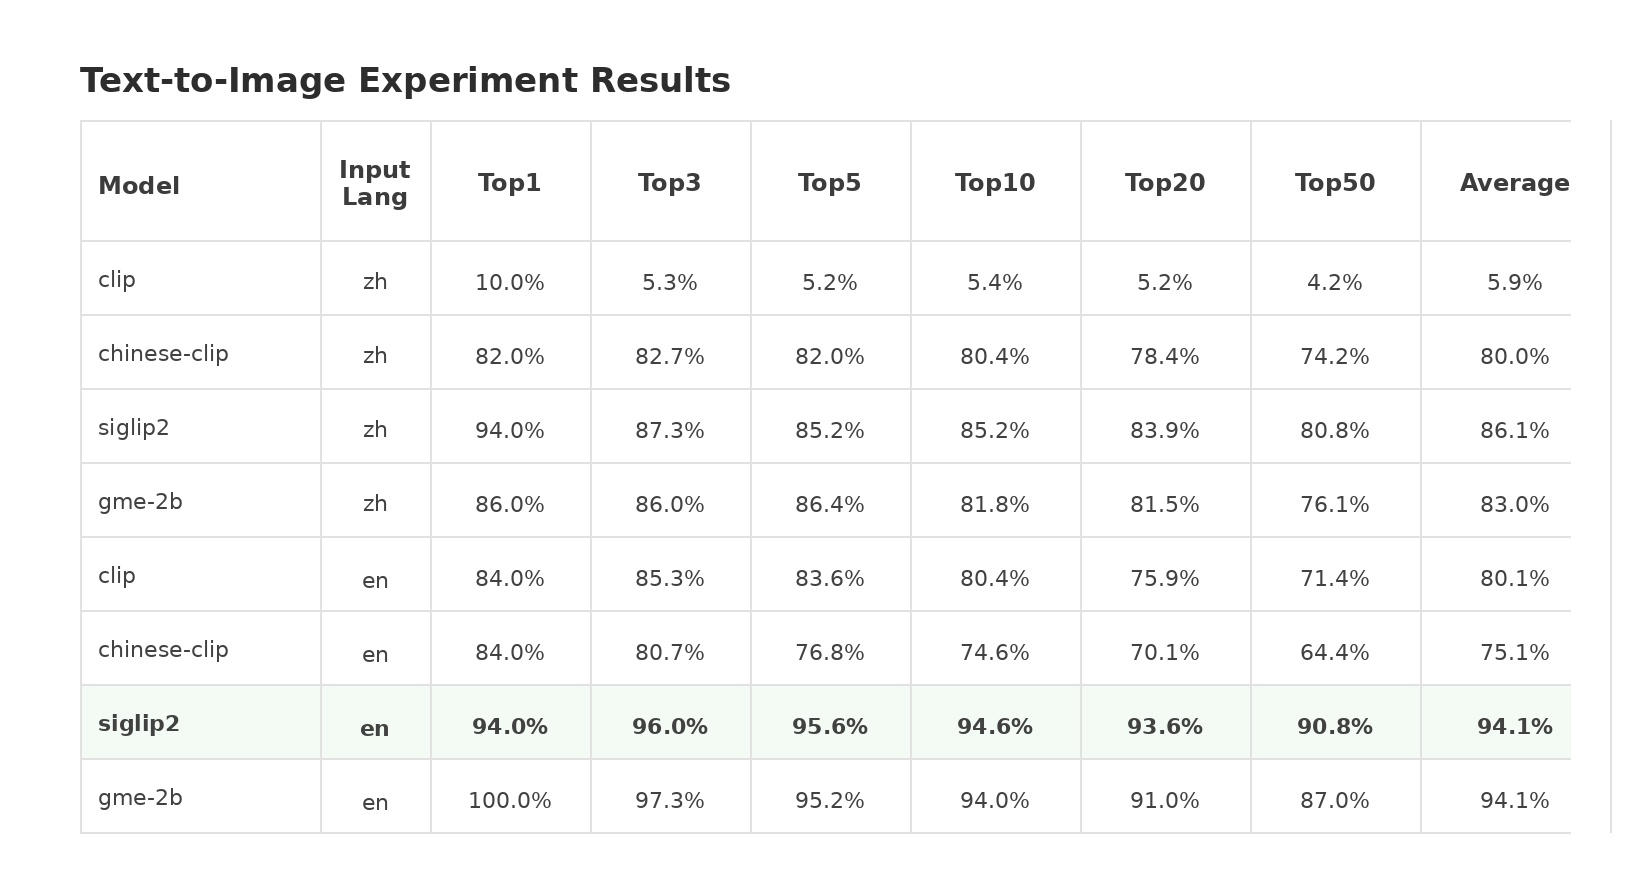
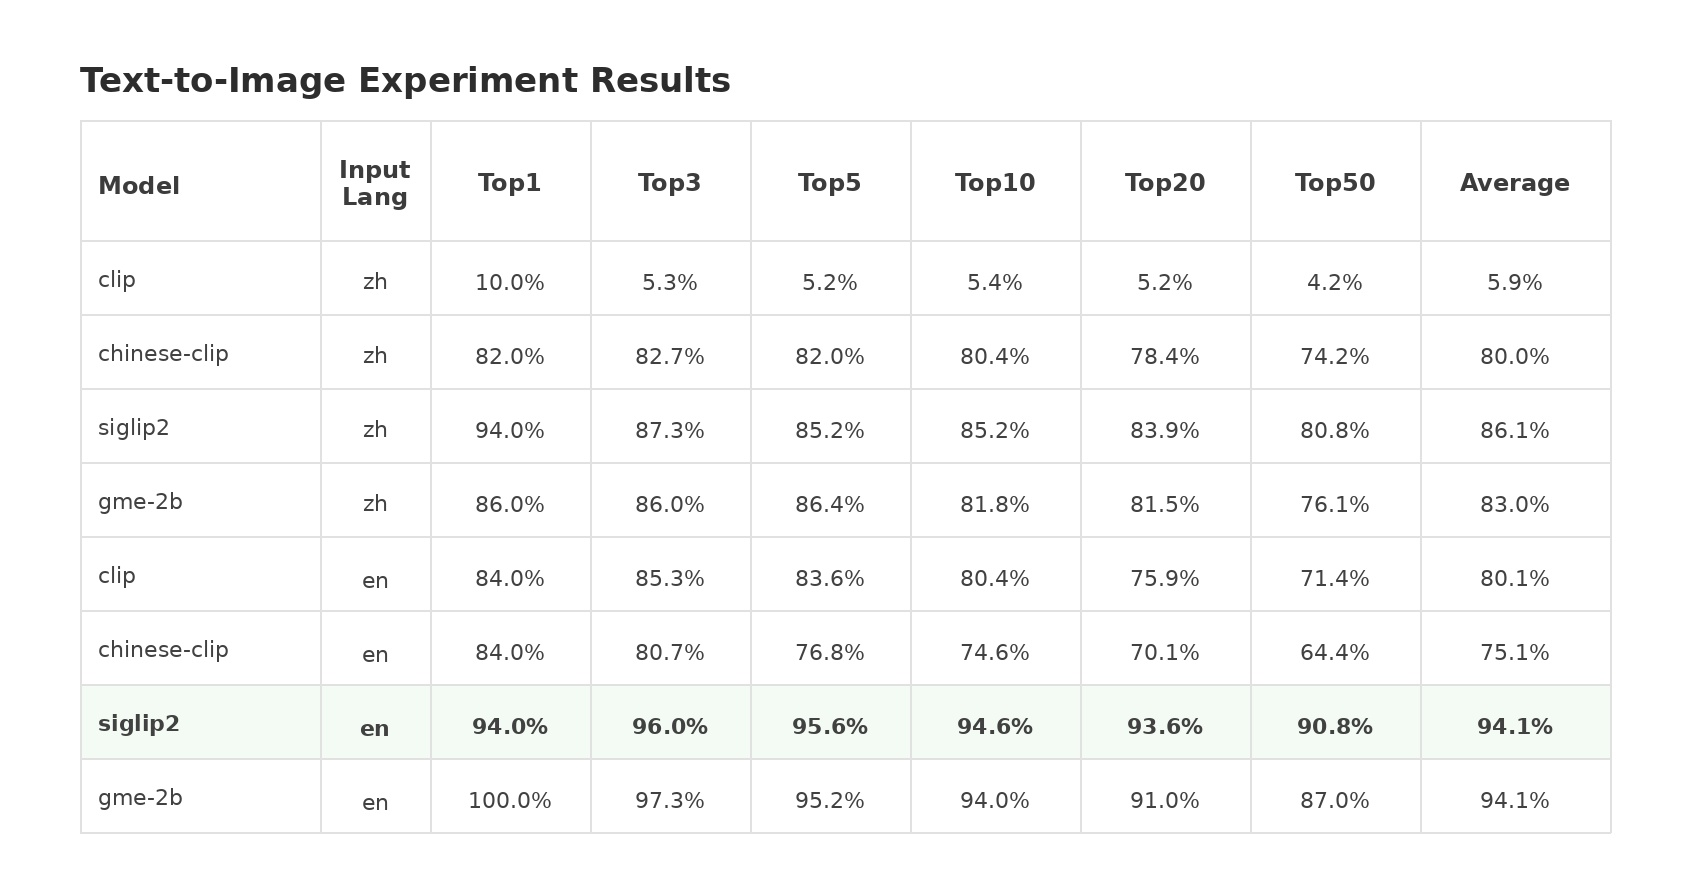
Fix chart rendering and add in-domain result tables

diff --git a/scripts/render_in_domain_result_tables.py b/scripts/render_in_domain_result_tables.py
@@ -1,0 +1,244 @@
+from __future__ import annotations
+
+import argparse
+import csv
+import json
+from pathlib import Path
+
+from PIL import Image, ImageDraw, ImageFont
+
+
+ROOT = Path("/workspace/multimodal_ecommerce_qa")
+RUN_DIR = ROOT / "reports/generated/siglip2_in_domain_pipeline_20260403T155304Z"
+FONT_REGULAR = "/usr/share/fonts/truetype/dejavu/DejaVuSans.ttf"
+FONT_BOLD = "/usr/share/fonts/truetype/dejavu/DejaVuSans-Bold.ttf"
+
+
+def parse_args() -> argparse.Namespace:
+    parser = argparse.ArgumentParser(description="Render in-domain RAG result tables in the sample white-table style.")
+    parser.add_argument("--run-dir", type=Path, default=RUN_DIR)
+    return parser.parse_args()
+
+
+def pct(value: float) -> str:
+    return f"{value * 100:.1f}%"
+
+
+def read_csv_rows(path: Path) -> list[dict[str, str]]:
+    with path.open("r", encoding="utf-8", newline="") as fh:
+        return list(csv.DictReader(fh))
+
+
+def draw_table_image(
+    *,
+    title: str,
+    headers: list[str],
+    rows: list[list[str]],
+    output_path: Path,
+    highlight_row: int | None = None,
+) -> None:
+    left = 80
+    top = 60
+    title_h = 60
+    header_h = 120
+    row_h = 74
+    bottom = 40
+    if len(headers) == 4:
+        col_widths = [350, 260, 260, 260]
+    elif len(headers) == 5:
+        col_widths = [320, 220, 220, 220, 220]
+    elif len(headers) == 7:
+        col_widths = [260, 150, 150, 150, 150, 150, 170]
+    else:
+        width = max(1280, 180 + 170 * len(headers))
+        table_w = width - left * 2
+        first = 320
+        rest = (table_w - first) // (len(headers) - 1)
+        col_widths = [first] + [rest] * (len(headers) - 1)
+        col_widths[-1] += table_w - sum(col_widths)
+    width = max(1280, left * 2 + sum(col_widths))
+    table_w = width - left * 2
+    height = top + title_h + header_h + row_h * len(rows) + bottom
+
+    image = Image.new("RGB", (width, height), "white")
+    draw = ImageDraw.Draw(image)
+
+    title_font = ImageFont.truetype(FONT_BOLD, 34)
+    head_font = ImageFont.truetype(FONT_BOLD, 24)
+    body_font = ImageFont.truetype(FONT_REGULAR, 22)
+    body_bold_font = ImageFont.truetype(FONT_BOLD, 22)
+
+    draw.text((left, top), title, fill=(45, 45, 45), font=title_font)
+
+    y0 = top + title_h
+
+    x_positions = [left]
+    for width_part in col_widths:
+        x_positions.append(x_positions[-1] + width_part)
+
+    line_color = (225, 225, 225)
+    header_bg = (255, 255, 255)
+    winner_bg = (244, 251, 244)
+
+    draw.rectangle([left, y0, left + table_w, y0 + header_h], fill=header_bg)
+
+    total_rows_h = header_h + row_h * len(rows)
+    for idx in range(len(rows) + 2):
+        y = y0 + (0 if idx == 0 else header_h + row_h * (idx - 1))
+        draw.line([(left, y), (left + table_w, y)], fill=line_color, width=2)
+    draw.line([(left, y0 + total_rows_h), (left + table_w, y0 + total_rows_h)], fill=line_color, width=2)
+
+    for x in x_positions:
+        draw.line([(x, y0), (x, y0 + total_rows_h)], fill=line_color, width=2)
+
+    for i, header in enumerate(headers):
+        x1, x2 = x_positions[i], x_positions[i + 1]
+        bbox = draw.multiline_textbbox((0, 0), header, font=head_font, spacing=4)
+        tw = bbox[2] - bbox[0]
+        th = bbox[3] - bbox[1]
+        tx = x1 + (x2 - x1 - tw) / 2
+        ty = y0 + (header_h - th) / 2
+        if i == 0:
+            tx = x1 + 18
+        draw.multiline_text((tx, ty), header, fill=(60, 60, 60), font=head_font, spacing=4, align="center")
+
+    for r, row in enumerate(rows):
+        y1 = y0 + header_h + r * row_h
+        y2 = y1 + row_h
+        is_best = highlight_row is not None and r == highlight_row
+        if is_best:
+            draw.rectangle([left, y1, left + table_w, y2], fill=winner_bg)
+            for x in x_positions:
+                draw.line([(x, y1), (x, y2)], fill=line_color, width=2)
+            draw.line([(left, y1), (left + table_w, y1)], fill=line_color, width=2)
+            draw.line([(left, y2), (left + table_w, y2)], fill=line_color, width=2)
+
+        for c, value in enumerate(row):
+            x1, x2 = x_positions[c], x_positions[c + 1]
+            font = body_bold_font if is_best else body_font
+            if c == 0:
+                bbox = draw.textbbox((0, 0), value, font=font)
+                tx = x1 + 18
+                ty = y1 + (row_h - (bbox[3] - bbox[1])) / 2
+                draw.text((tx, ty), value, fill=(65, 65, 65), font=font)
+            else:
+                bbox = draw.multiline_textbbox((0, 0), value, font=font, spacing=4)
+                tw = bbox[2] - bbox[0]
+                th = bbox[3] - bbox[1]
+                tx = x1 + (x2 - x1 - tw) / 2
+                ty = y1 + (row_h - th) / 2
+                draw.multiline_text((tx, ty), value, fill=(65, 65, 65), font=font, spacing=4, align="center")
+
+    output_path.parent.mkdir(parents=True, exist_ok=True)
+    image.save(output_path, quality=95)
+
+
+def build_retrieval_rows(summary: dict[str, float]) -> list[list[str]]:
+    keys = ["avg_precision@1", "avg_precision@3", "avg_precision@5", "avg_precision@10", "avg_precision@20", "avg_precision@50"]
+    avg_mean = sum(float(summary[key]) for key in keys) / len(keys)
+    return [[
+        "siglip2",
+        pct(float(summary["avg_precision@1"])),
+        pct(float(summary["avg_precision@3"])),
+        pct(float(summary["avg_precision@5"])),
+        pct(float(summary["avg_precision@10"])),
+        pct(float(summary["avg_precision@20"])),
+        pct(float(summary["avg_precision@50"])),
+        pct(avg_mean),
+    ]]
+
+
+def render_images(run_dir: Path) -> list[Path]:
+    payload = json.loads((run_dir / "in_domain_summary.json").read_text(encoding="utf-8"))
+    summary_metrics = payload["summary_metrics"]
+    rerank_rows = read_csv_rows(run_dir / "rerank_summary.csv")
+    gpt_rows = read_csv_rows(run_dir / "gpt54_eval_summary.csv")
+
+    outputs: list[Path] = []
+
+    image_to_image_path = run_dir / "siglip2_image_to_image_results.jpg"
+    draw_table_image(
+        title="Image-to-Image Experiment Results",
+        headers=["Model", "Top1", "Top3", "Top5", "Top10", "Top20", "Top50", "Average"],
+        rows=build_retrieval_rows(summary_metrics["image_to_image"]),
+        output_path=image_to_image_path,
+        highlight_row=0,
+    )
+    outputs.append(image_to_image_path)
+
+    image_text_path = run_dir / "siglip2_image_text_to_image_results.jpg"
+    draw_table_image(
+        title="Image+Text-to-Image Experiment Results",
+        headers=["Model", "Top1", "Top3", "Top5", "Top10", "Top20", "Top50", "Average"],
+        rows=build_retrieval_rows(summary_metrics["image_text_to_image"]),
+        output_path=image_text_path,
+        highlight_row=0,
+    )
+    outputs.append(image_text_path)
+
+    multi_route_rows = [
+        [
+            "multi-route recall",
+            pct(float(summary_metrics["multi_route_top10"]["avg_precision@10"])),
+            pct(float(summary_metrics["multi_route_top10"]["avg_hit@10"])),
+        ],
+        [
+            "image+text baseline",
+            pct(float(summary_metrics["image_text_top10_baseline"]["avg_precision@10"])),
+            pct(float(summary_metrics["image_text_top10_baseline"]["avg_hit@10"])),
+        ],
+    ]
+    multi_route_path = run_dir / "siglip2_multi_route_results.jpg"
+    draw_table_image(
+        title="Multi-Route Recall Experiment Results",
+        headers=["Method", "Top10 Precision", "Top10 Hit"],
+        rows=multi_route_rows,
+        output_path=multi_route_path,
+        highlight_row=0,
+    )
+    outputs.append(multi_route_path)
+
+    gpt_by_method = {row["method_name"]: row for row in gpt_rows}
+    rerank_table_rows: list[list[str]] = []
+    for row in rerank_rows:
+        method = row["method_name"]
+        gpt_row = gpt_by_method[method]
+        rerank_table_rows.append(
+            [
+                method.replace("_", "-"),
+                pct(float(row["avg_top5_relevance_ratio"])),
+                pct(float(row["avg_filtered_irrelevant_ratio"])),
+                pct(float(gpt_row["avg_top5_relevant_ratio_gpt"])),
+                pct(float(gpt_row["avg_filtered_correct_ratio_gpt"])),
+            ]
+        )
+
+    best_index = max(range(len(rerank_table_rows)), key=lambda idx: float(gpt_rows[idx]["avg_top5_relevant_ratio_gpt"]))
+    rerank_path = run_dir / "siglip2_rerank_filter_results.jpg"
+    draw_table_image(
+        title="Reranking and Filtering Experiment Results",
+        headers=[
+            "Method",
+            "Label Top5\nRelevant",
+            "Label Filtered\nIrrelevant",
+            "GPT Top5\nRelevant",
+            "GPT Filtered\nCorrect",
+        ],
+        rows=rerank_table_rows,
+        output_path=rerank_path,
+        highlight_row=best_index,
+    )
+    outputs.append(rerank_path)
+
+    return outputs
+
+
+def main() -> None:
+    args = parse_args()
+    outputs = render_images(args.run_dir)
+    for output in outputs:
+        print(output)
+
+
+if __name__ == "__main__":
+    main()

diff --git a/scripts/render_sample_style_results.py b/scripts/render_sample_style_results.py
@@ -92,13 +92,14 @@ def main() -> None:
     best_row_index = find_best_row_index(payload)
     headers = ["Model", "Input\nLang", "Top1", "Top3", "Top5", "Top10", "Top20", "Top50", "Average"]
 
-    width = 1650
+    col_widths = [240, 110, 160, 160, 160, 170, 170, 170, 190]
     left = 80
     top = 60
     title_h = 60
     header_h = 120
     row_h = 74
     bottom = 40
+    width = max(1650, left * 2 + sum(col_widths))
     table_w = width - left * 2
     height = top + title_h + header_h + row_h * len(rows) + bottom
 
@@ -113,7 +114,6 @@ def main() -> None:
     draw.text((left, top), args.title, fill=(45, 45, 45), font=title_font)
 
     y0 = top + title_h
-    col_widths = [240, 110, 160, 160, 160, 170, 170, 170, 190]
     x_positions = [left]
     for width_part in col_widths:
         x_positions.append(x_positions[-1] + width_part)
